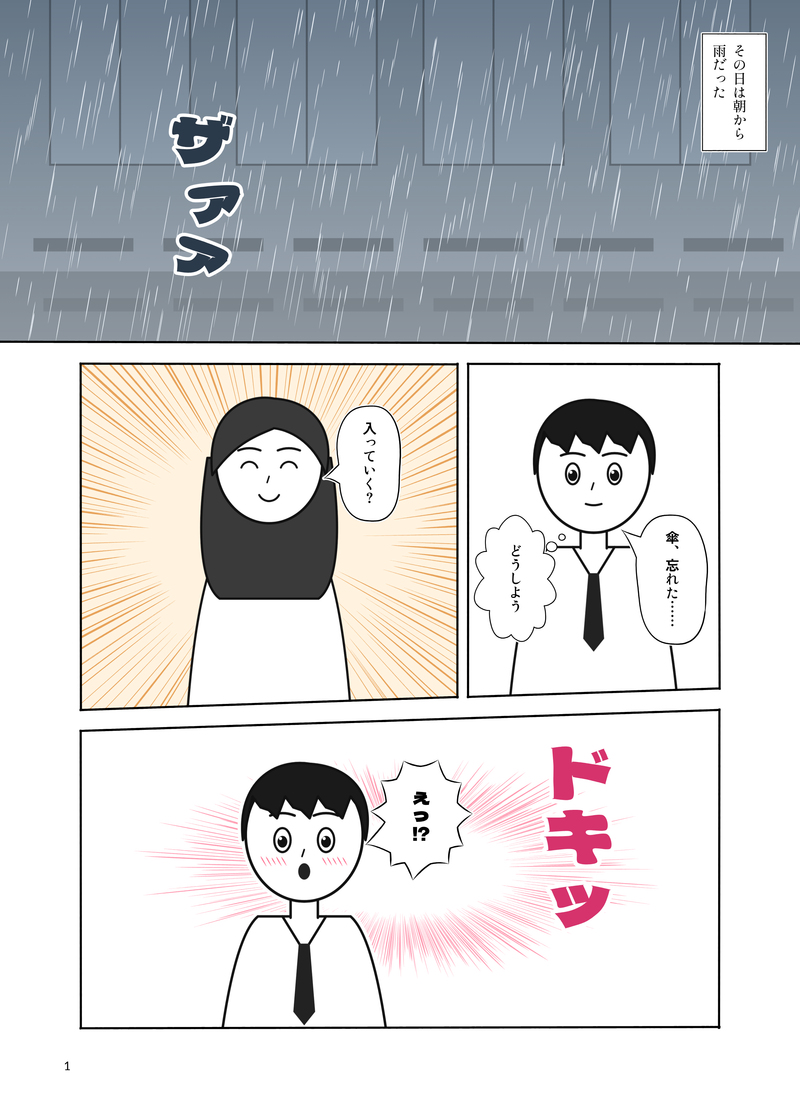
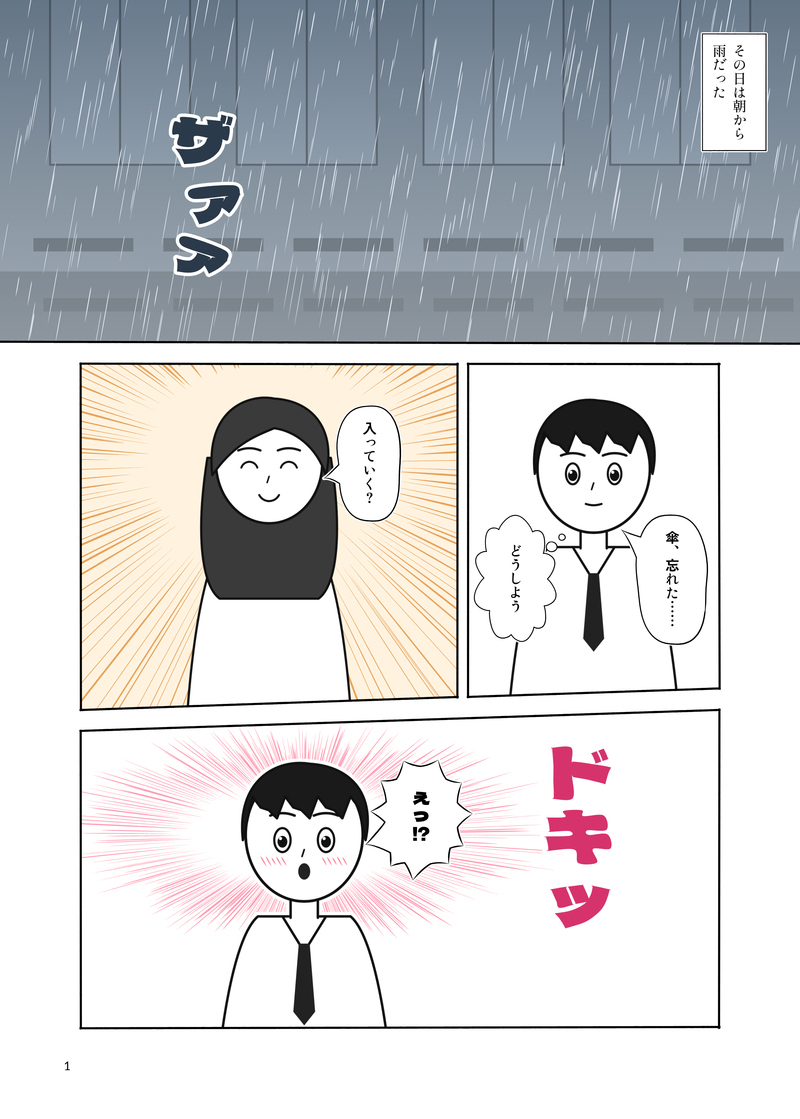
集中線・ベタフラ・ウニフラの中心の既定をキャラクターの顔にする（center: auto）

Changed region(s): [[0.0938, 0.3038, 0.5938, 0.6381], [0.0938, 0.6381, 0.7812, 0.8811]]

diff --git a/src/model/defaults.ts b/src/model/defaults.ts
@@ -45,9 +45,9 @@ export const BUILTIN_DEFAULTS: Record<string, Obj> = {
 
 export const BUILTIN_EFFECT_DEFAULTS: Record<string, Obj> = {
   "*": { color: "black", opacity: 1, density: 1, background: "none", clip: "panel" },
-  "focus-lines": { center: "center", inner: ["32%", "26%"], innerJitter: 0.35, spikes: { ratio: 0.06, depth: 0.45 }, count: "auto", thickness: { min: "0.12bmm", max: "0.5bmm", dist: "low" }, taper: "in", angleJitter: 0.8, cluster: 0.35, curve: 0, ruler: true, pen: { preset: "maru-pen" } },
-  "beta-flash": { center: "center", inner: ["24%", "20%"], outer: ["44%", "38%"], outerJitter: 0.15, innerJitter: 0.5, spikes: { ratio: 0.1, depth: 0.6 }, count: "auto", thickness: { min: "0.25bmm", max: "1.0bmm", dist: "low" }, core: "paper", ruler: true, pen: { preset: "g-pen" } },
-  "uni-flash": { center: "center", inner: ["18%", "15%"], outer: ["36%", "30%"], innerJitter: 0.25, outerJitter: 0.35, count: "auto", thickness: { min: "0.08bmm", max: "0.3bmm", dist: "low" }, taper: "both", peak: 0.6, core: "paper", rings: 1, ruler: true, pen: { preset: "maru-pen" } },
+  "focus-lines": { center: "auto", inner: ["32%", "26%"], innerJitter: 0.35, spikes: { ratio: 0.06, depth: 0.45 }, count: "auto", thickness: { min: "0.12bmm", max: "0.5bmm", dist: "low" }, taper: "in", angleJitter: 0.8, cluster: 0.35, curve: 0, ruler: true, pen: { preset: "maru-pen" } },
+  "beta-flash": { center: "auto", inner: ["24%", "20%"], outer: ["44%", "38%"], outerJitter: 0.15, innerJitter: 0.5, spikes: { ratio: 0.1, depth: 0.6 }, count: "auto", thickness: { min: "0.25bmm", max: "1.0bmm", dist: "low" }, core: "paper", ruler: true, pen: { preset: "g-pen" } },
+  "uni-flash": { center: "auto", inner: ["18%", "15%"], outer: ["36%", "30%"], innerJitter: 0.25, outerJitter: 0.35, count: "auto", thickness: { min: "0.08bmm", max: "0.3bmm", dist: "low" }, taper: "both", peak: 0.6, core: "paper", rings: 1, ruler: true, pen: { preset: "maru-pen" } },
   "speed-lines": { angle: 0, spacing: ["0.5bmm", "2.2bmm"], length: ["30%", "90%"], thickness: { min: "0.1bmm", max: "0.4bmm", dist: "low" }, taper: "both", align: "random", cluster: 0.4, ruler: true, pen: { preset: "maru-pen" } },
   "swirl-lines": { center: "center", radius: ["15%", "60%"], arc: ["25deg", "90deg"], count: "auto", direction: "cw", thickness: ["0.1bmm", "0.4bmm"], spiral: 0, pen: { preset: "maru-pen" } },
   impact: { radius: "18%", spikes: 14, irregularity: 0.5, fill: "paper", stroke: { width: "0.3bmm", pen: { preset: "g-pen" } }, double: true, rays: { count: 24, length: ["2bmm", "8bmm"], thickness: ["0.15bmm", "0.4bmm"] } },

diff --git a/src/elements/effects.ts b/src/elements/effects.ts
@@ -32,6 +32,21 @@ interface FxCtx {
   k: number;
 }
 
+/** the burst centre: explicit, else the face of the panel's main character, else the region centre */
+function autoCenter(f: FxCtx, p: Obj, pc: ReturnType<typeof placeCtx>): Vec | null {
+  if (p.center !== undefined && p.center !== "auto") return resolvePoint(p.center, pc);
+  const b = f.region.bbox;
+  let best: { c: Vec; a: number } | null = null;
+  for (const t of f.ctx.refs.all()) {
+    const face = t.regions.face?.bbox;
+    if (t.type !== "image" || !t.character || !face || (f.ctx.panel && t.panelId !== f.ctx.panel.panel.id)) continue;
+    const c = { x: face.x + face.w / 2, y: face.y + face.h / 2 };
+    if (c.x < b.x || c.y < b.y || c.x > b.x + b.w || c.y > b.y + b.h) continue;
+    if (!best || face.w * face.h > best.a) best = { c, a: face.w * face.h };
+  }
+  return best ? best.c : resolvePoint("center", pc);
+}
+
 const L = (f: FxCtx, v: unknown, base?: number) => toMm(v as string, { ...f.ctx.u, base });
 const R = (f: FxCtx, v: unknown, fb: Range, base?: number): Range => toRange(v as never, (x) => L(f, x, base), fb);
 
@@ -121,7 +136,7 @@ function focusLines(f: FxCtx, over: Obj = {}): InkPoly[] {
   const p = { ...f.p, ...over };
   const b = f.region.bbox;
   const pc = { ...placeCtx(f.ctx, f.el), coordsBox: f.ctx.coordsBox };
-  const c = resolvePoint(p.center ?? "center", pc) ?? { x: b.x + b.w / 2, y: b.y + b.h / 2 };
+  const c = autoCenter(f, p, pc) ?? { x: b.x + b.w / 2, y: b.y + b.h / 2 };
   const inner = (p.inner as unknown[]) ?? ["32%", "26%"];
   const rx = L(f, inner[0], b.w);
   const ry = L(f, inner[1], b.h);
@@ -195,7 +210,7 @@ function betaFlash(f: FxCtx): Node[] {
   const p = f.p;
   const b = f.region.bbox;
   const pc = placeCtx(f.ctx, f.el);
-  const c = resolvePoint(p.center ?? "center", pc) ?? { x: b.x + b.w / 2, y: b.y + b.h / 2 };
+  const c = autoCenter(f, p, pc) ?? { x: b.x + b.w / 2, y: b.y + b.h / 2 };
   const inner = (p.inner as unknown[]) ?? ["24%", "20%"];
   const outer = (p.outer as unknown[]) ?? ["44%", "38%"];
   const rx = L(f, inner[0], b.w);
@@ -262,7 +277,7 @@ function uniFlash(f: FxCtx): Node[] {
   const p = f.p;
   const b = f.region.bbox;
   const pc = placeCtx(f.ctx, f.el);
-  const c = resolvePoint(p.center ?? "center", pc) ?? { x: b.x + b.w / 2, y: b.y + b.h / 2 };
+  const c = autoCenter(f, p, pc) ?? { x: b.x + b.w / 2, y: b.y + b.h / 2 };
   const inner = (p.inner as unknown[]) ?? ["18%", "15%"];
   const outer = (p.outer as unknown[]) ?? ["36%", "30%"];
   const rx = L(f, inner[0], b.w);

diff --git a/docs/08-effects.md b/docs/08-effects.md
@@ -74,7 +74,7 @@
 
 | パラメータ | 型 | 既定値 | 説明 |
 |---|---|---|---|
-| `center` | Point | `center` | 集中する点。コマの外でもよい |
+| `center` | Point \| `auto` | `auto` | 集中する点。コマの外でもよい。`auto` は、コマの中のキャラクター画像の `face` 領域（複数あれば最も大きいもの）の中心、なければ領域の中心 |
 | `inner` | `[rx, ry]` | `[32%, 26%]` | 中心の空白の楕円の半径（% は `region` の外接矩形に対する割合） |
 | `innerRotate` | Angle | `0` | 空白の楕円の傾き |
 | `innerJitter` | 0〜1 | `0.35` | 線の内側の端の不揃い。内側の端の半径は inner × (1 + innerJitter × u^1.5)（u は 0〜1 の乱数） |
@@ -111,7 +111,7 @@ passes:
 
 | パラメータ | 型 | 既定値 | 説明 |
 |---|---|---|---|
-| `center` | Point | `center` | 中心 |
+| `center` | Point \| `auto` | `auto` | 中心（`auto` は集中線と同じ） |
 | `inner` | `[rx, ry]` | `[24%, 20%]` | 線が届く最も内側の楕円の半径 |
 | `outer` | `[rx, ry]` | `[44%, 38%]` | これより外側を黒ベタで埋める楕円の半径 |
 | `outerJitter` | 0〜1 | `0.15` | 黒ベタの境界の揺らぎ |
@@ -140,7 +140,7 @@ passes:
 
 | パラメータ | 型 | 既定値 | 説明 |
 |---|---|---|---|
-| `center` | Point | `center` | 中心 |
+| `center` | Point \| `auto` | `auto` | 中心（`auto` は集中線と同じ） |
 | `inner` | `[rx, ry]` | `[18%, 15%]` | 線の内側の端の楕円 |
 | `outer` | `[rx, ry]` | `[36%, 30%]` | 線の外側の端の楕円 |
 | `innerJitter` | 0〜1 | `0.25` | 内側の端の不揃い |
